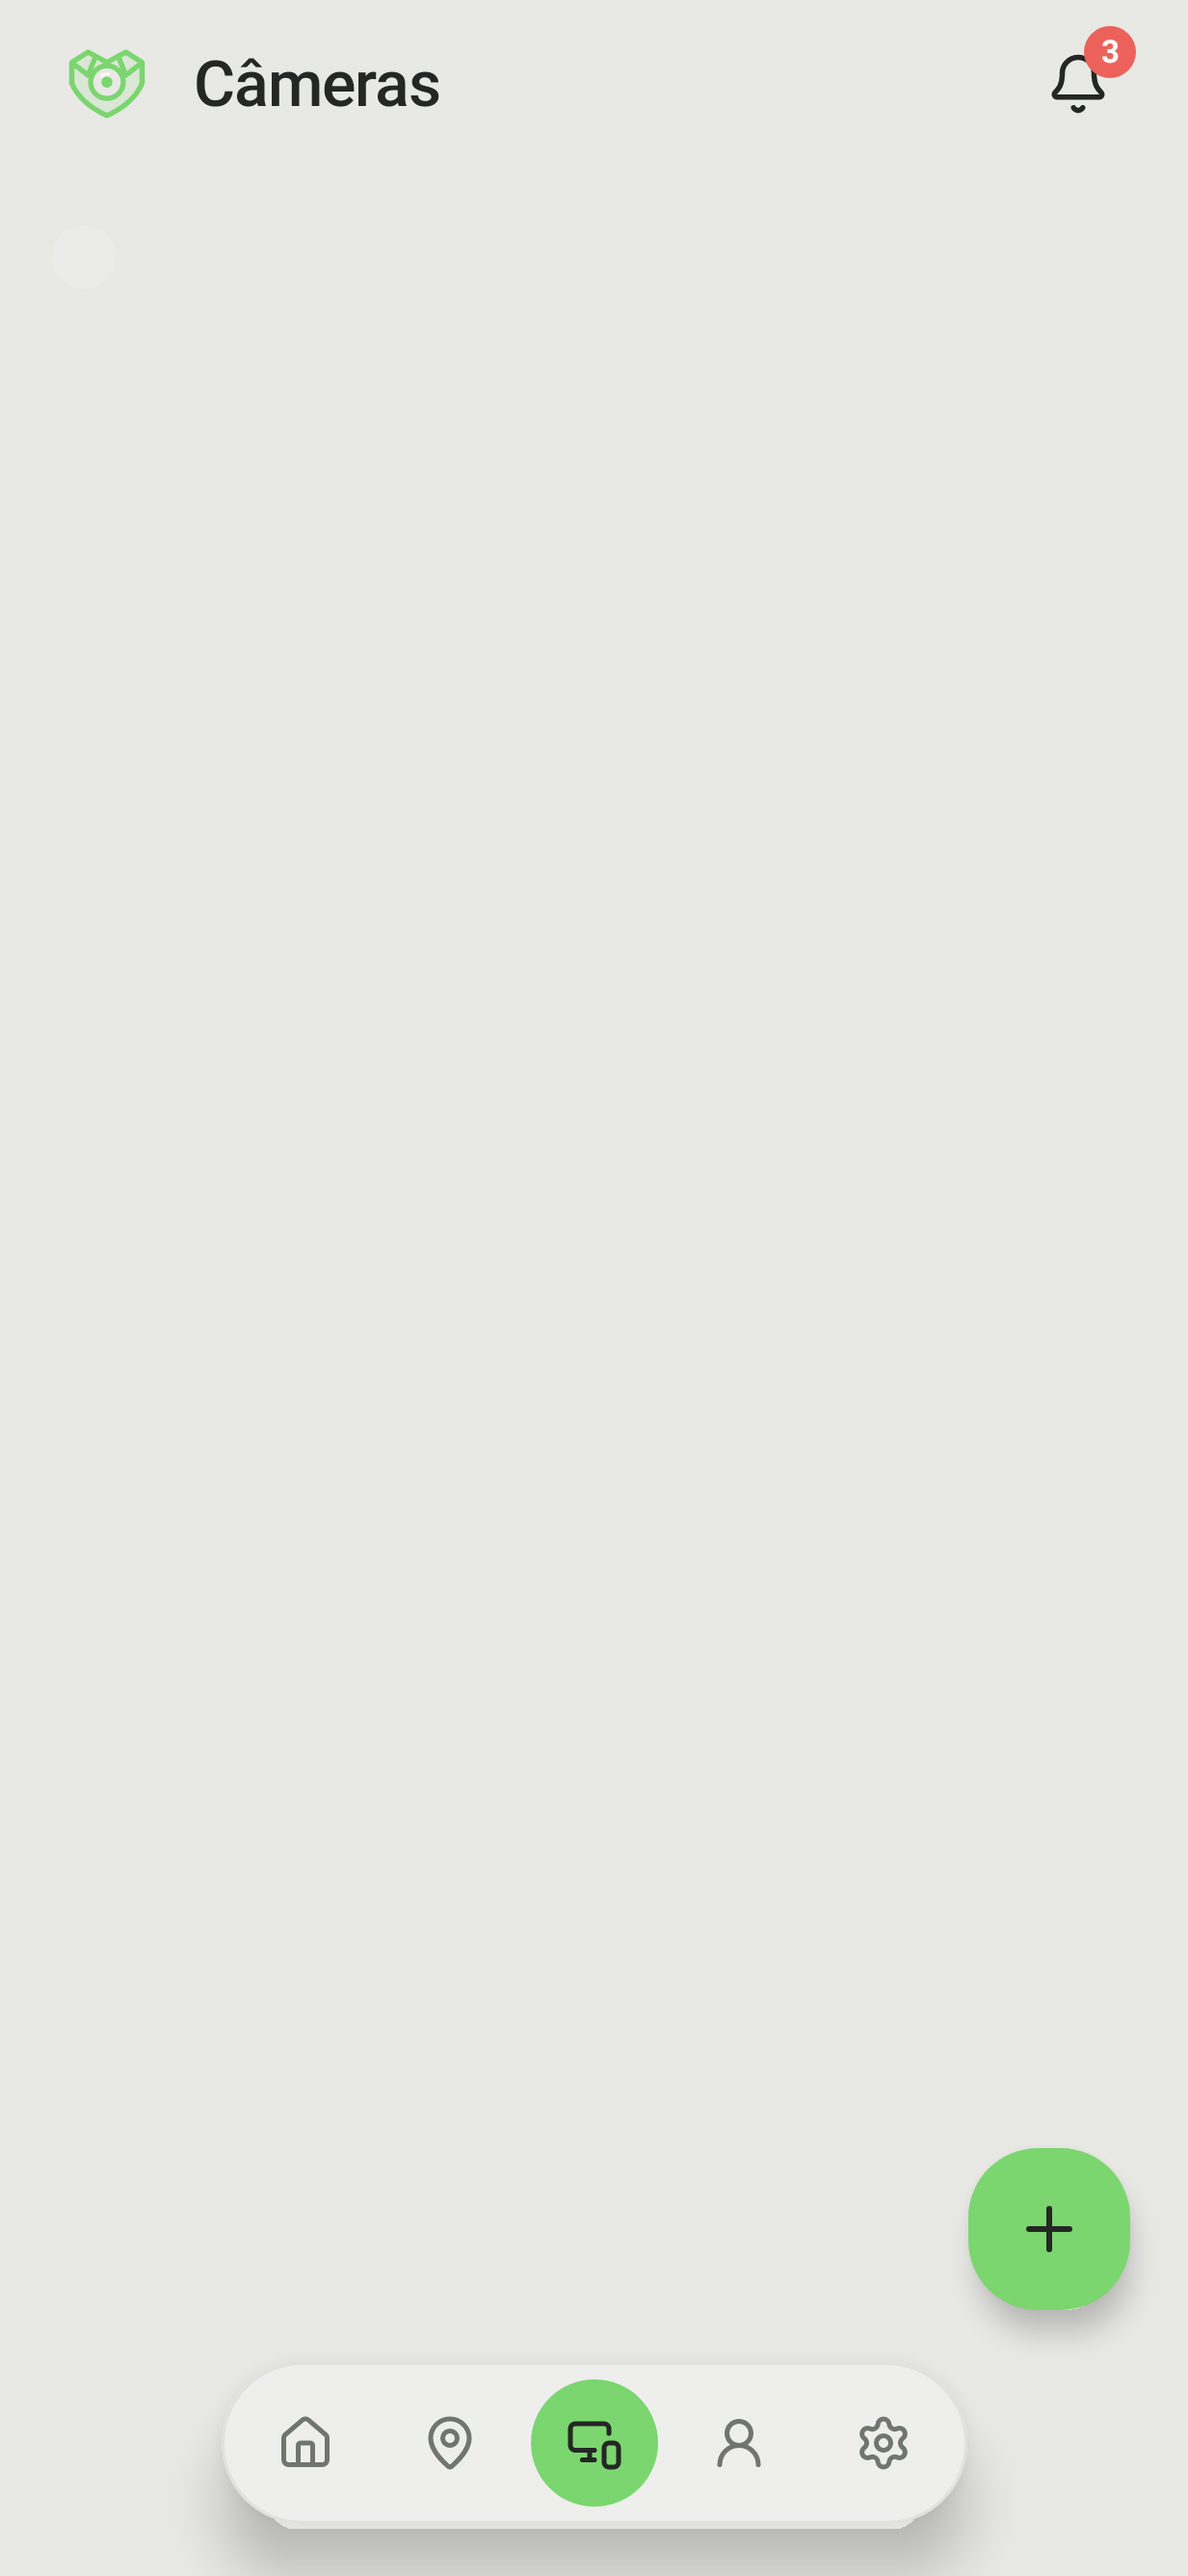
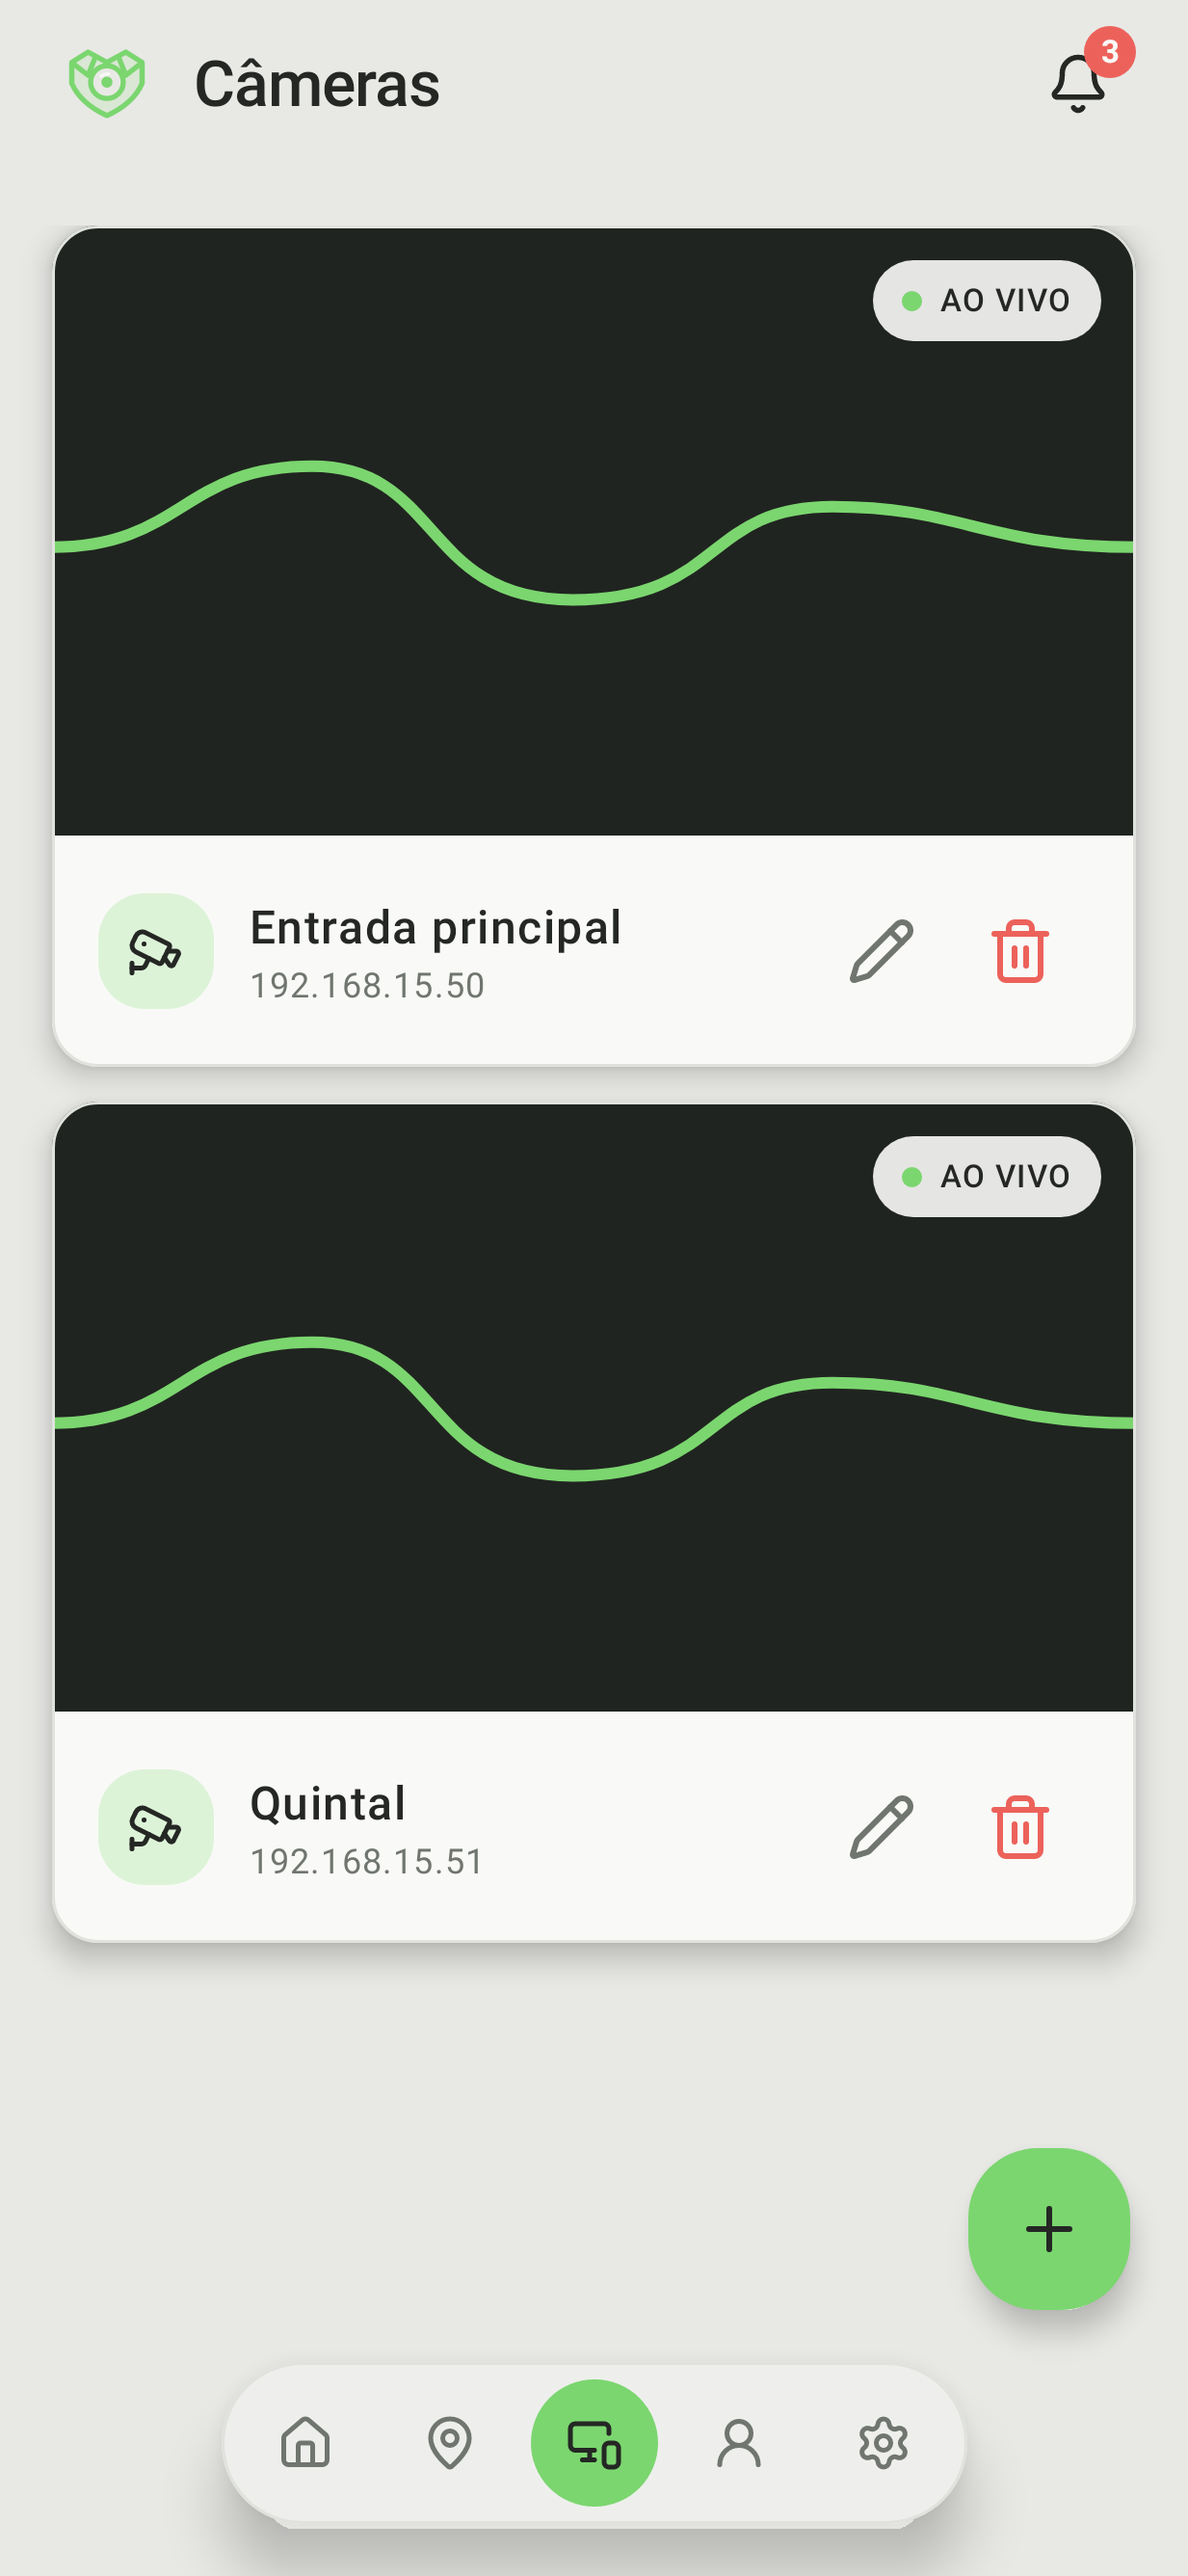
fix(landing): cameras sem estado de carregamento e regras com os cartoes reais

diff --git a/mobile/app/src/test/java/com/ferforastieri/valkyris/feature/lights/LandingScreenshotsTest.kt b/mobile/app/src/test/java/com/ferforastieri/valkyris/feature/lights/LandingScreenshotsTest.kt
@@ -32,7 +32,7 @@ import com.ferforastieri.valkyris.feature.cameras.CamerasState
 import com.ferforastieri.valkyris.feature.events.EventsContent
 import com.ferforastieri.valkyris.feature.overview.FavoriteItem
 import com.ferforastieri.valkyris.feature.overview.OverviewContent
-import com.ferforastieri.valkyris.feature.rules.RulesContent
+import com.ferforastieri.valkyris.feature.rules.RuleCard
 import com.ferforastieri.valkyris.feature.settings.SettingsContent
 import com.ferforastieri.valkyris.core.design.FloatingDock
 import com.github.takahirom.roborazzi.captureRoboImage
@@ -91,7 +91,7 @@ class LandingScreenshotsTest {
     private fun cameras() = CamerasState(cameras = listOf(
         Camera(id = "cam-1", name = "Entrada principal", icon = "camera", host = "192.0.2.50", setupStatus = "ready", favorite = true),
         Camera(id = "cam-2", name = "Quintal", icon = "camera", host = "192.0.2.51", setupStatus = "ready"),
-    ))
+    ), loading = false)
 
     private fun eventos() = listOf(
         ValkyrisEvent(id = "e1", cameraId = "cam-1", type = "pessoa", confidence = 0.93, occurredAt = "2026-10-17T14:02:00Z"),
@@ -99,7 +99,16 @@ class LandingScreenshotsTest {
         ValkyrisEvent(id = "e3", cameraId = "cam-1", type = "som", confidence = 0.77, occurredAt = "2026-10-17T12:15:00Z"),
     )
 
-    private fun regras() = listOf(com.ferforastieri.valkyris.core.model.Rule(cameraId = "cam-1", name = "Pessoa na entrada", detectorTypes = listOf("pessoa")), com.ferforastieri.valkyris.core.model.Rule(cameraId = "cam-1", name = "Movimento no quintal", detectorTypes = listOf("pessoa")))
+    private fun regra(nome: String) = com.ferforastieri.valkyris.core.model.Rule(cameraId = "cam-1", name = nome, detectorTypes = listOf("pessoa"))
+
+    @androidx.compose.runtime.Composable
+    private fun regras() = Column(Modifier.padding(horizontal = 18.dp, vertical = 12.dp), verticalArrangement = Arrangement.spacedBy(12.dp)) {
+        RuleCard(regra("Pessoa na entrada"), {}, {})
+        RuleCard(regra("Movimento no quintal"), {}, {})
+        RuleCard(regra("Choro do bebê"), {}, {})
+    }
+
+    private fun listaRegras() = listOf(com.ferforastieri.valkyris.core.model.Rule(cameraId = "cam-1", name = "Pessoa na entrada", detectorTypes = listOf("pessoa")), com.ferforastieri.valkyris.core.model.Rule(cameraId = "cam-1", name = "Movimento no quintal", detectorTypes = listOf("pessoa")))
 
     @androidx.compose.runtime.Composable
     private fun lista() = Column(Modifier.padding(horizontal = 18.dp, vertical = 12.dp), verticalArrangement = Arrangement.spacedBy(12.dp)) {
